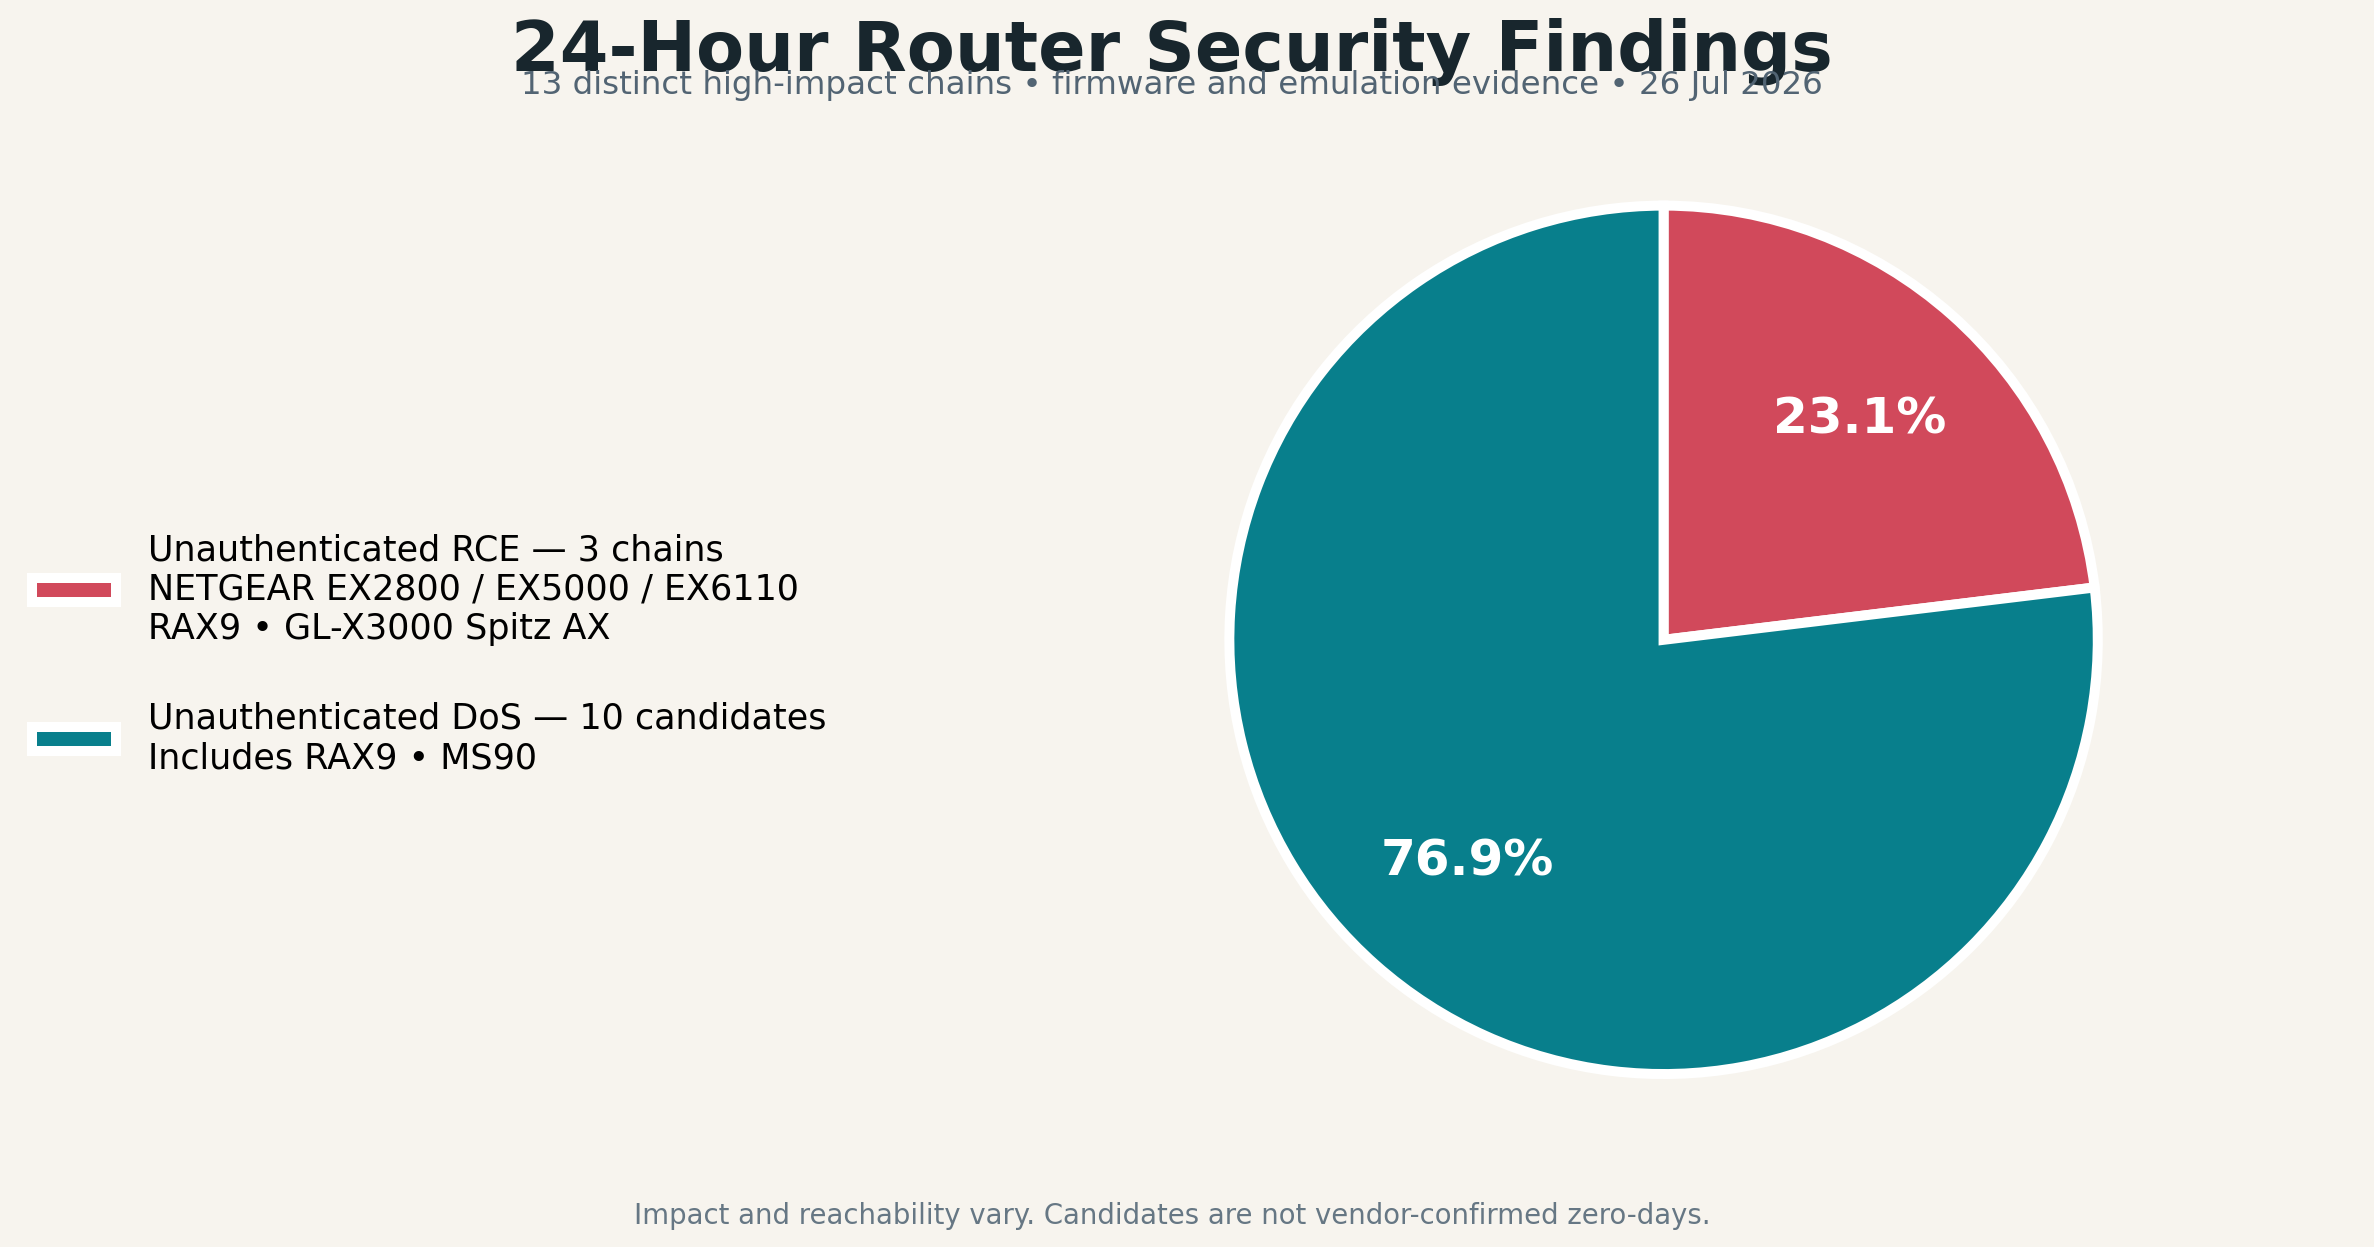
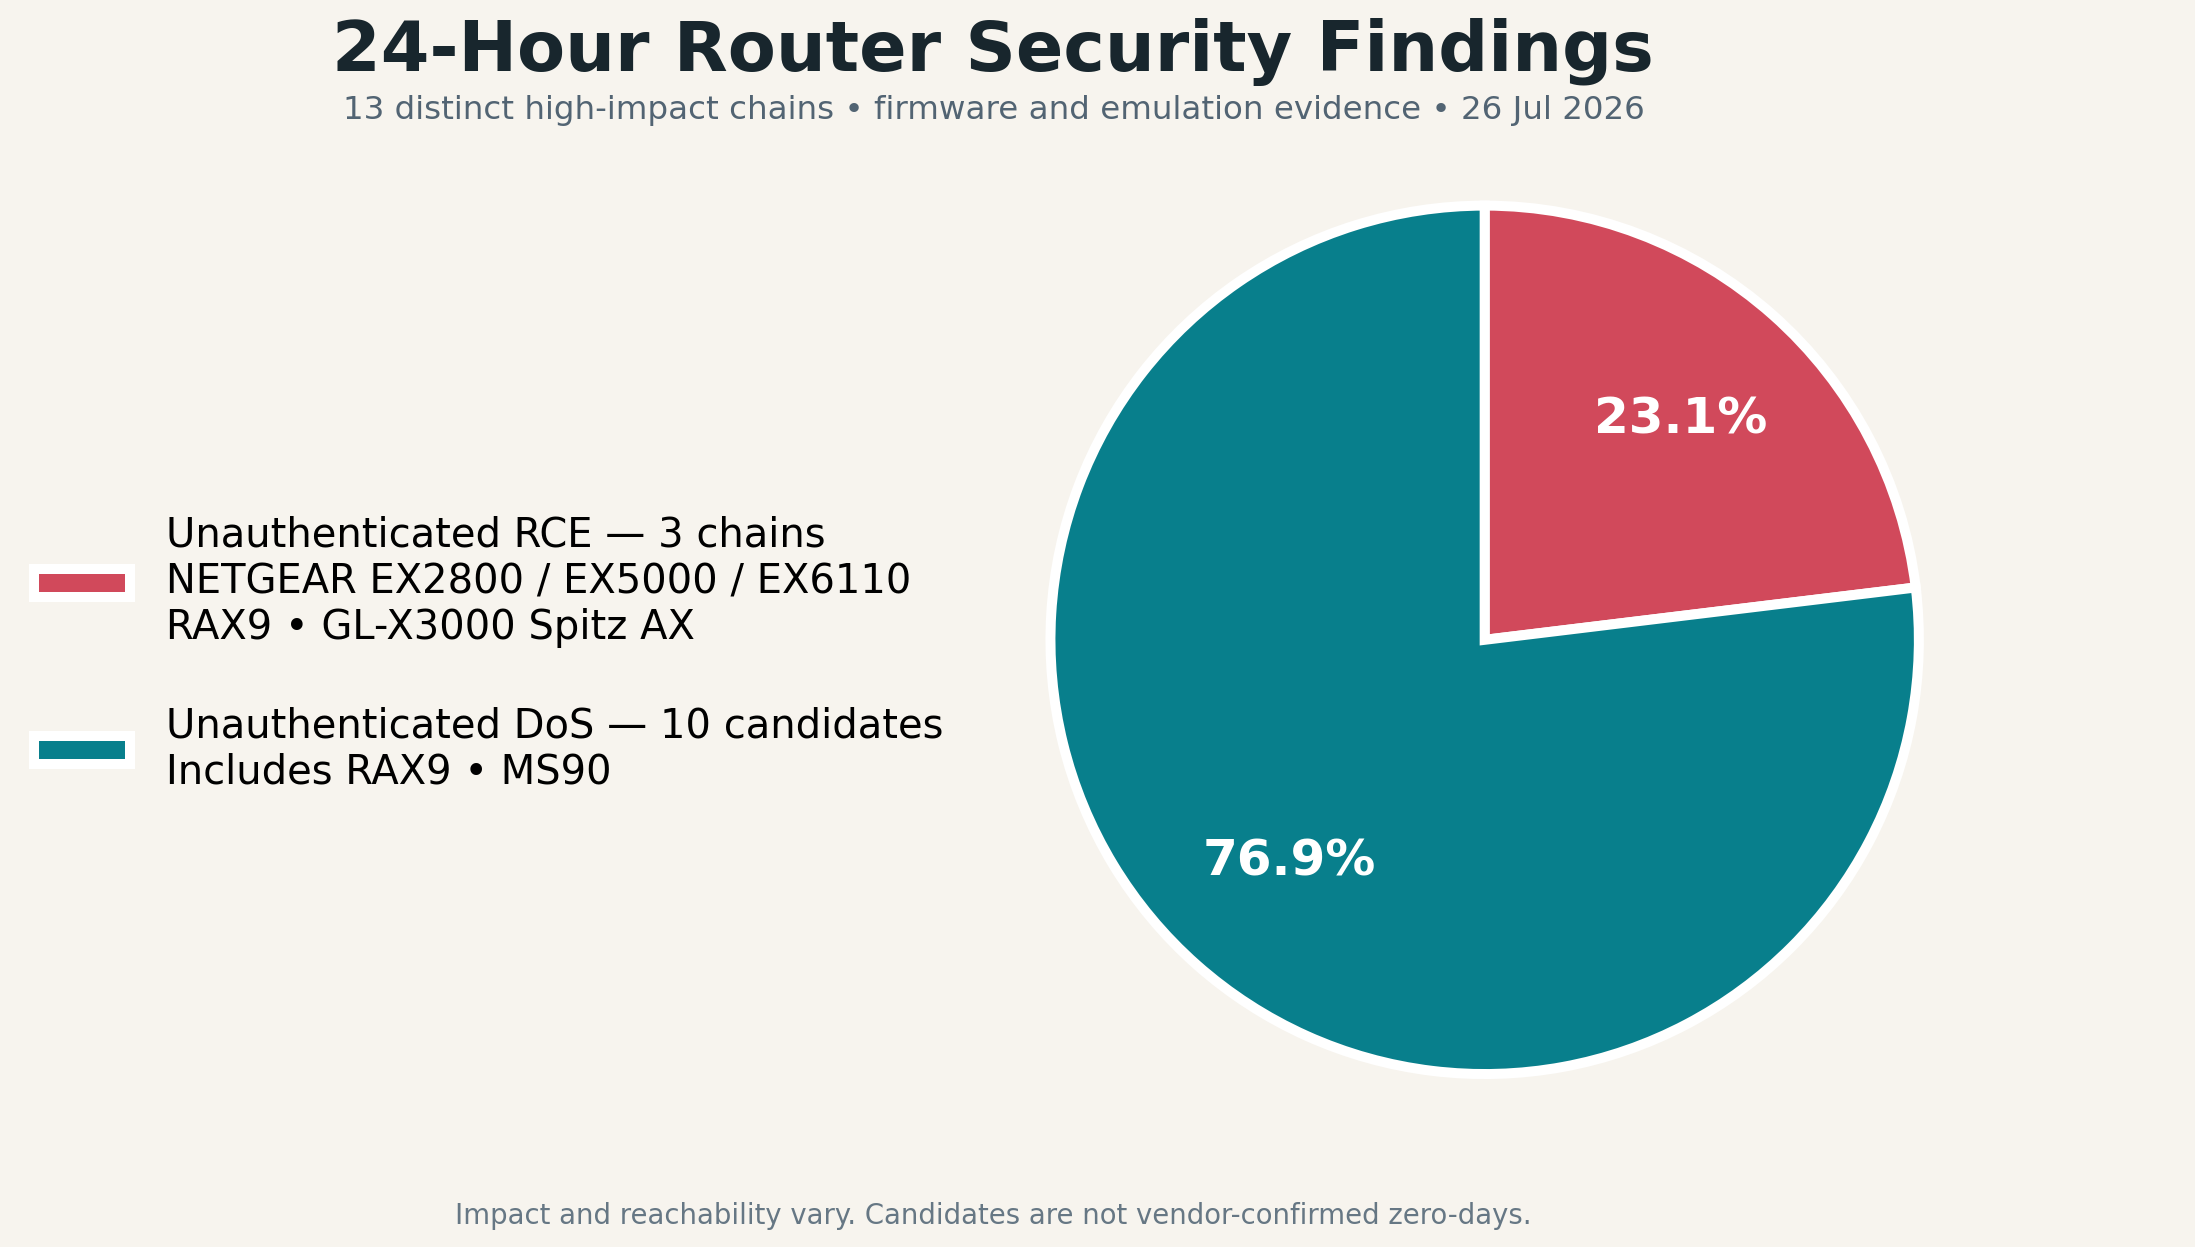
Enlarge and reposition findings chart key

diff --git a/scripts/build_24_hour_findings_pie.py b/scripts/build_24_hour_findings_pie.py
@@ -46,11 +46,11 @@ def main() -> None:
             ),
         ],
         loc="center left",
-        bbox_to_anchor=(0.035, 0.47),
+        bbox_to_anchor=(0.105, 0.47),
         frameon=False,
-        fontsize=14,
+        fontsize=16,
         ncol=1,
-        labelspacing=1.6,
+        labelspacing=1.45,
         handlelength=2.4,
         handletextpad=0.9,
     )
@@ -63,7 +63,7 @@ def main() -> None:
     )
     fig.text(
         0.5,
-        0.915,
+        0.895,
         "13 distinct high-impact chains • firmware and emulation evidence • 26 Jul 2026",
         ha="center",
         fontsize=13,
